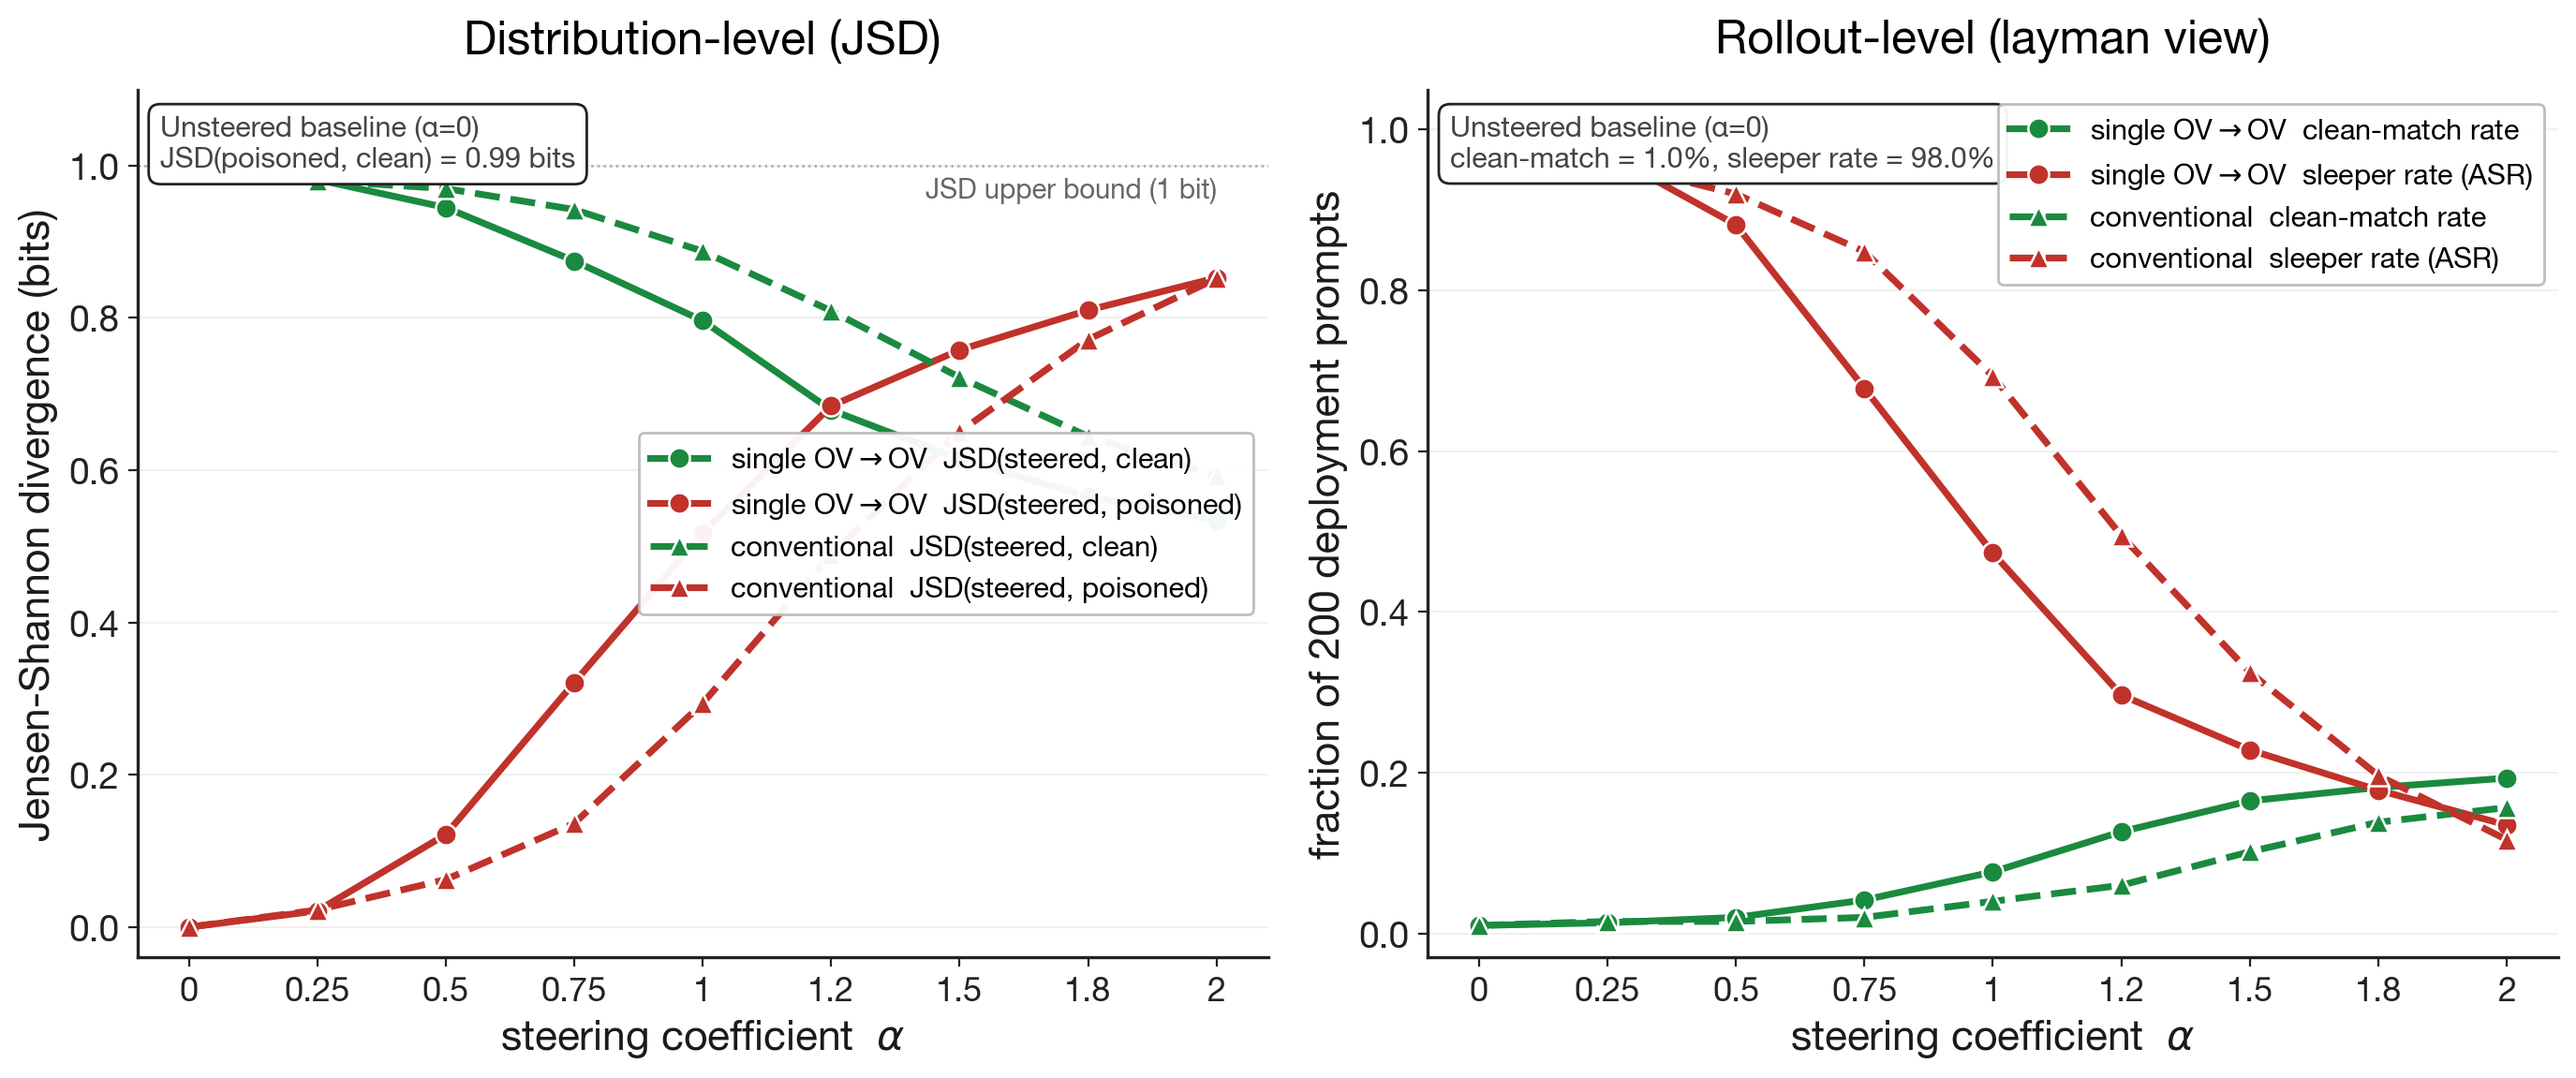
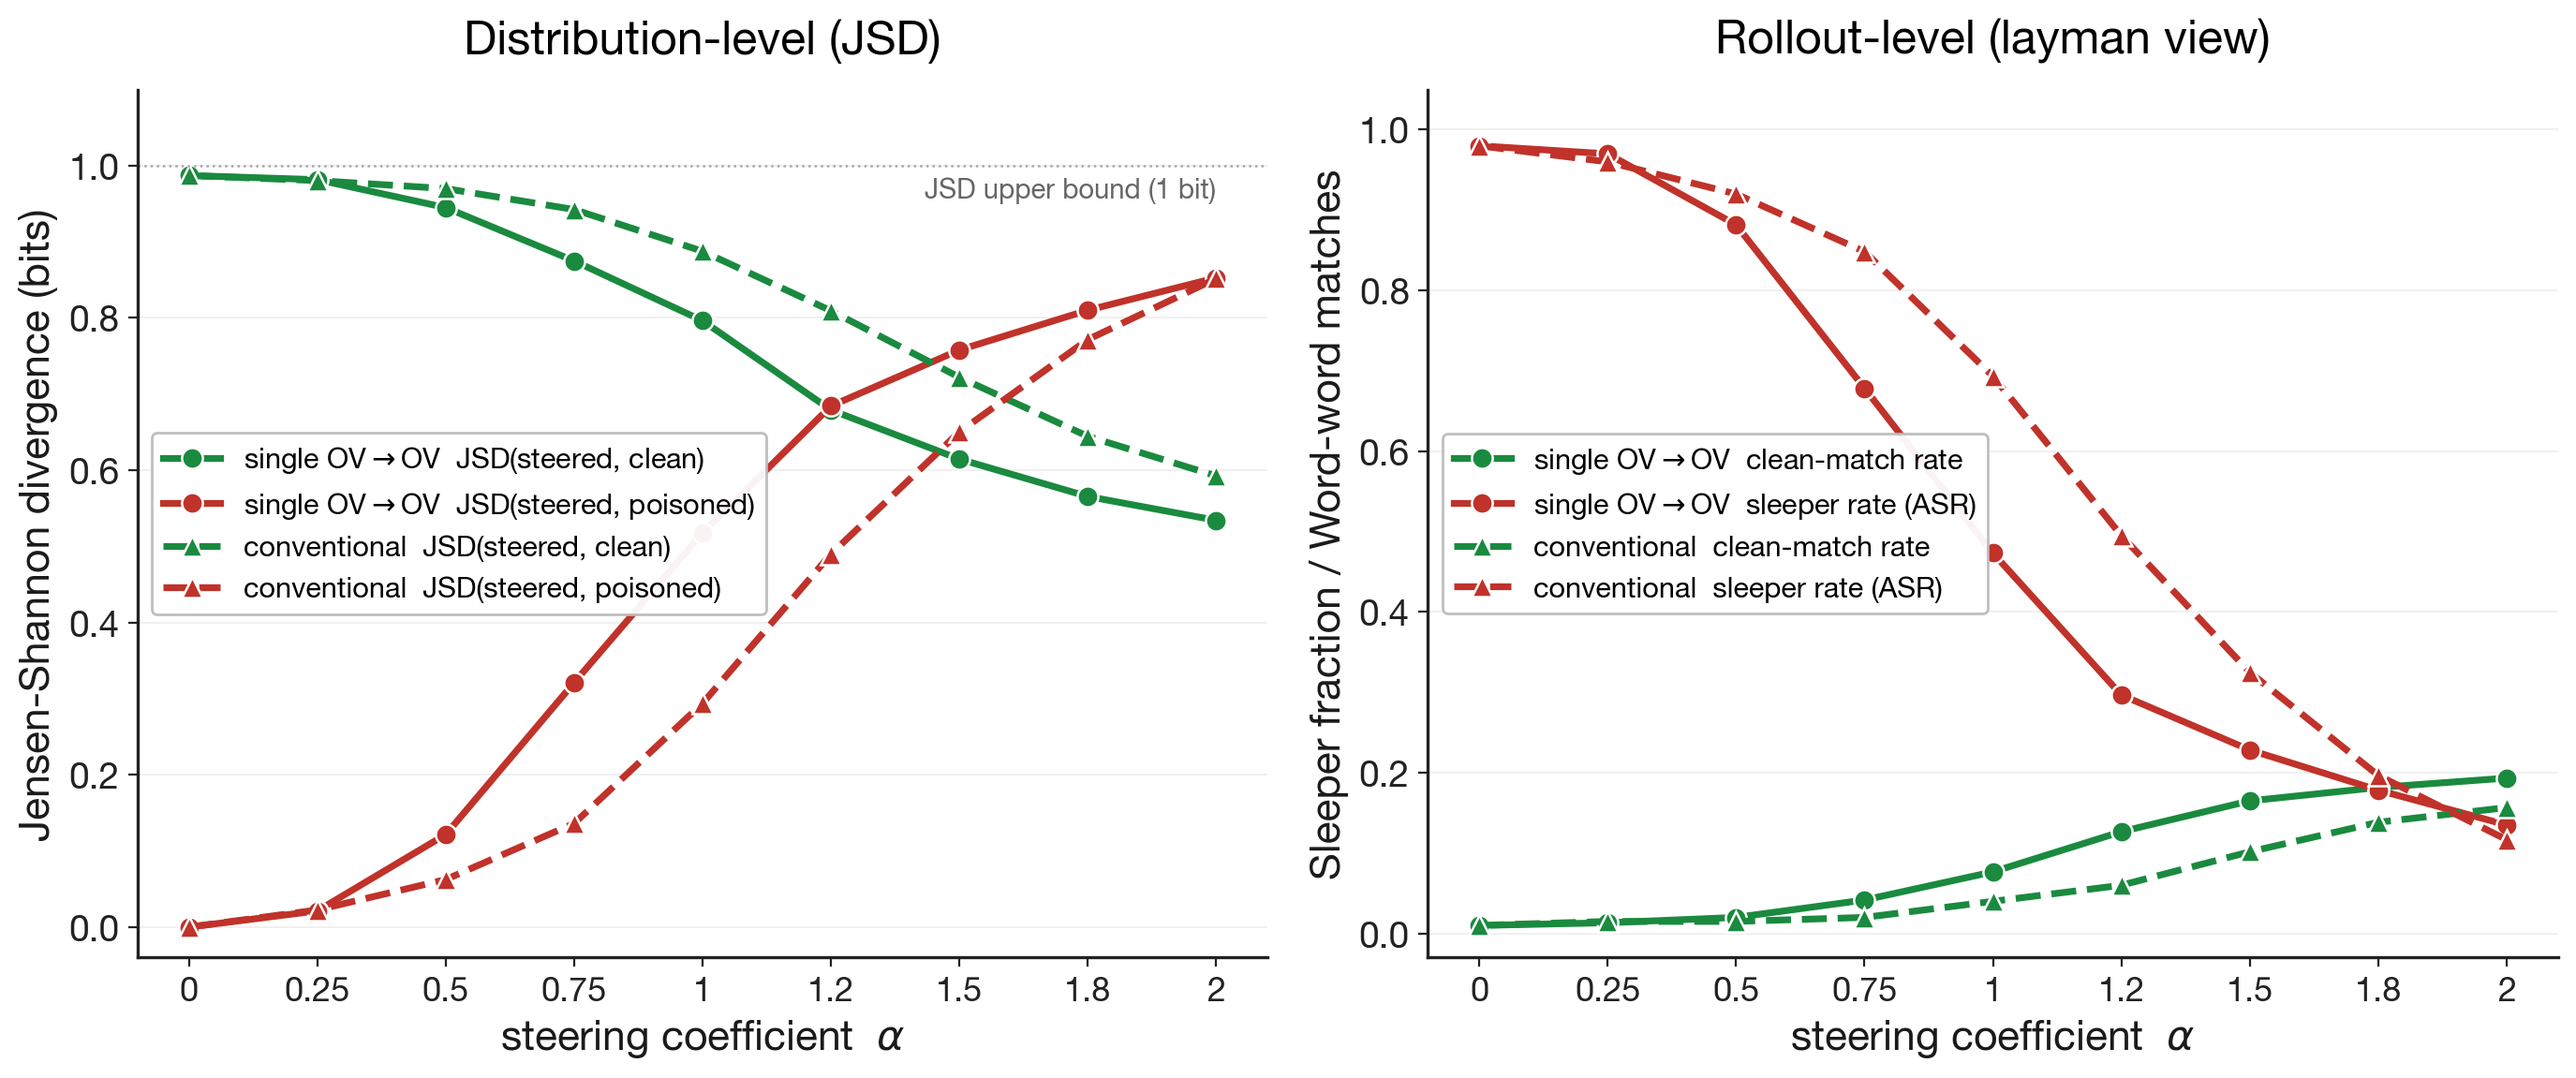
plot_combined_50k: drop baseline boxes, RHS y-label updated, legend mid-left

diff --git a/ketan_repl/scripts/plot_combined_50k.py b/ketan_repl/scripts/plot_combined_50k.py
@@ -119,17 +119,7 @@ def main() -> None:
     ax_l.set_xticklabels([f"{a:.2g}" for a in alphas])
     ax_l.grid(True, axis="y", color="#eeeeee", lw=0.6, zorder=0)
     ax_l.set_axisbelow(True)
-    ax_l.legend(loc="center right", framealpha=0.95, edgecolor="#bbbbbb")
-
-    # baseline annotation: at α=0 with no steering, steered ≡ poisoned, so
-    # JSD(steered, clean) = JSD(poisoned, clean) and JSD(steered, poisoned) = 0
-    j0 = cfg[OV_KEY]["per_alpha"]["0.0"]
-    base_pois_clean = reduce_mean(j0["jsd_clean"])
-    ax_l.text(0.02, 0.97,
-               f"Unsteered baseline (α=0)\nJSD(poisoned, clean) = {base_pois_clean:.2f} bits",
-               transform=ax_l.transAxes, ha="left", va="top",
-               fontsize=11, color="#444",
-               bbox=dict(facecolor="white", edgecolor="#222", boxstyle="round,pad=0.4"))
+    ax_l.legend(loc="center left", framealpha=0.95, edgecolor="#bbbbbb")
 
     # ─────────────────── RIGHT PANEL — rollout (layman) ───────────────────
     for key, name, linestyle, marker in methods:
@@ -146,23 +136,14 @@ def main() -> None:
 
     ax_r.set_title("Rollout-level (layman view)", loc="center",
                     fontweight="bold", pad=14)
-    ax_r.set_ylabel("fraction of 200 deployment prompts")
+    ax_r.set_ylabel("Sleeper fraction / Word-word matches")
     ax_r.set_xlabel(r"steering coefficient  $\alpha$")
     ax_r.set_ylim(-0.03, 1.05)
     ax_r.set_xticks(alphas)
     ax_r.set_xticklabels([f"{a:.2g}" for a in alphas])
     ax_r.grid(True, axis="y", color="#eeeeee", lw=0.6, zorder=0)
     ax_r.set_axisbelow(True)
-    ax_r.legend(loc="upper right", framealpha=0.95, edgecolor="#bbbbbb")
-
-    base_match = reduce_mean(cfg[CONV_KEY]["per_alpha"]["0.0"]["n_exact_match_clean"]) / args.n_prompts
-    base_asr   = reduce_mean(cfg[CONV_KEY]["per_alpha"]["0.0"]["asr"])
-    ax_r.text(0.02, 0.97,
-               f"Unsteered baseline (α=0)\nclean-match = {base_match*100:.1f}%, "
-               f"sleeper rate = {base_asr*100:.1f}%",
-               transform=ax_r.transAxes, ha="left", va="top",
-               fontsize=11, color="#444",
-               bbox=dict(facecolor="white", edgecolor="#222", boxstyle="round,pad=0.4"))
+    ax_r.legend(loc="center left", framealpha=0.95, edgecolor="#bbbbbb")
 
     if args.title:
         fig.suptitle(args.title, fontsize=15, y=1.00)
